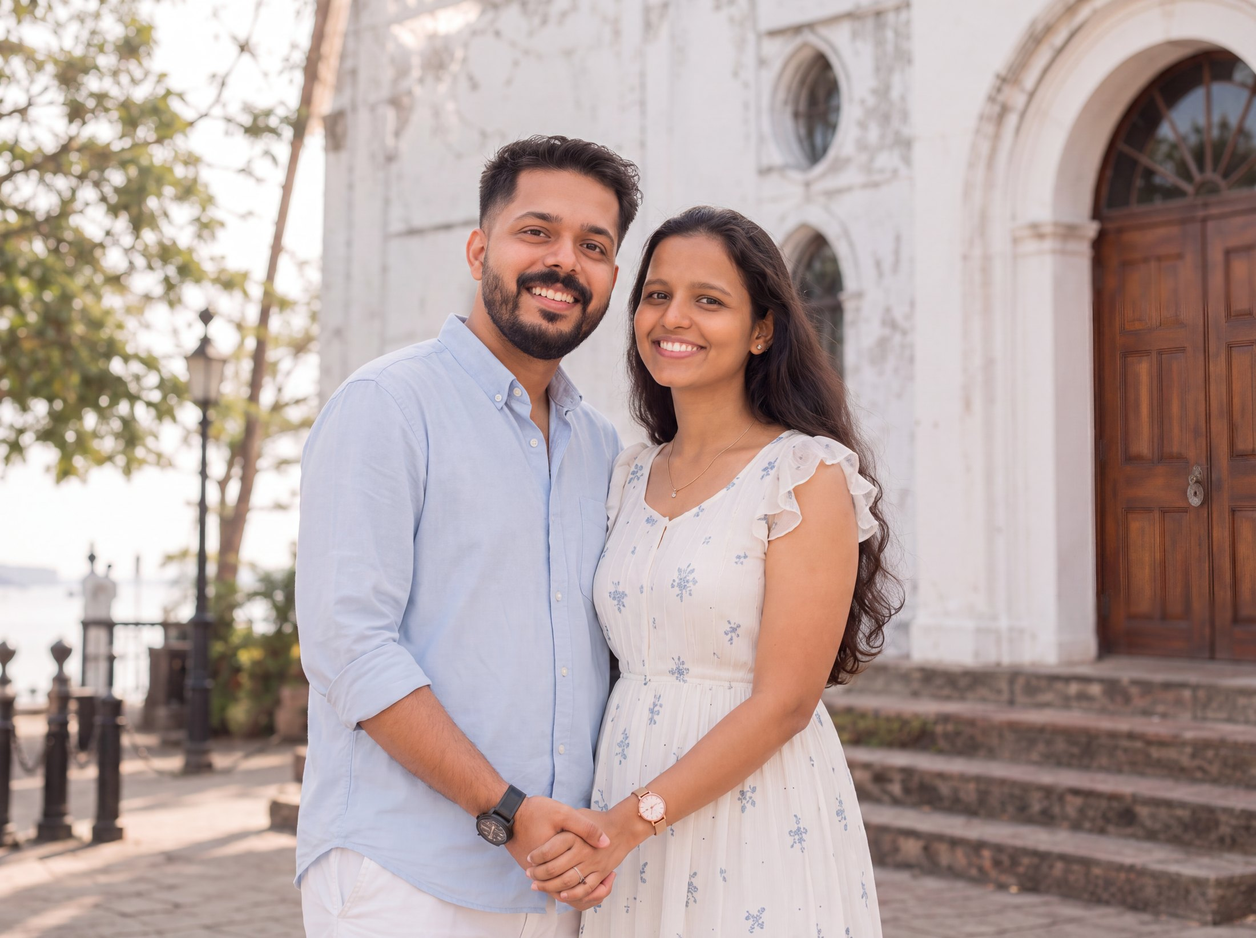
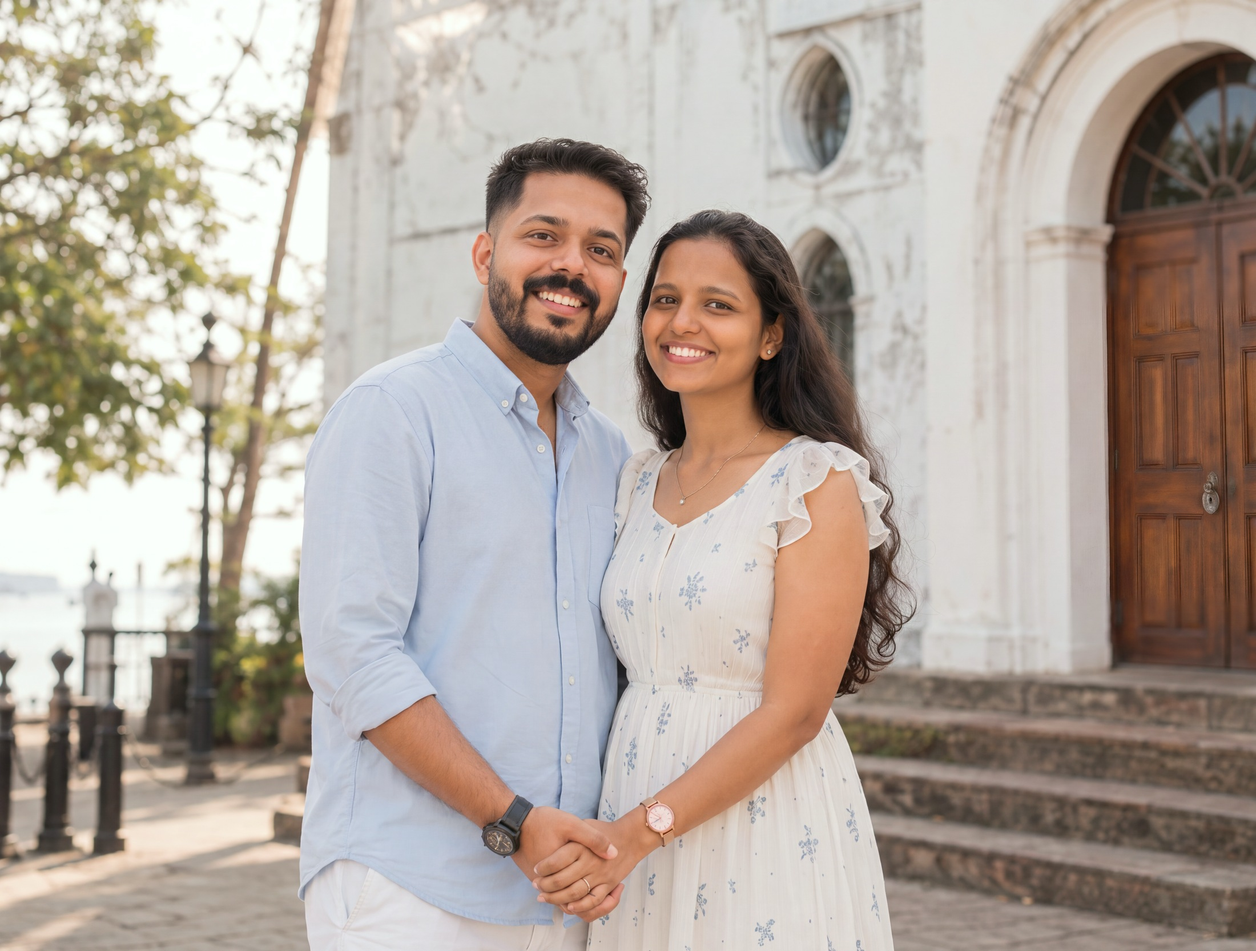
Re-upscale both church photographs with a stricter prompt
The first pass reinterpreted faces rather than resolving them: structural
correlation against the source was only 0.94 and the frame was stretched to a
1.339 aspect. Re-running each photograph on its own, with a prompt that forbids
any regeneration, lands at 0.987 correlation and holds the original 1.320
aspect, so the detail that appears is detail that was in the pixels.

Colour returned within a few levels of the source; each channel mean is now
pinned back to the original exactly, leaving the grade untouched. Share image
regenerated and its height metadata corrected.

diff --git a/jins+sneha+marriage/index.html b/jins+sneha+marriage/index.html
@@ -14,7 +14,7 @@
   <meta property="og:url" content="https://jinsthomas.dev/jins+sneha+marriage/" />
   <meta property="og:image" content="https://jinsthomas.dev/jins+sneha+marriage/og-cover.jpg" />
   <meta property="og:image:width" content="1200" />
-  <meta property="og:image:height" content="900" />
+  <meta property="og:image:height" content="909" />
   <meta property="og:image:alt" content="Jins and Sneha outside the church" />
   <meta name="twitter:card" content="summary_large_image" />
   <meta name="twitter:title" content="Jins &amp; Sneha — Wedding Invitation" />
